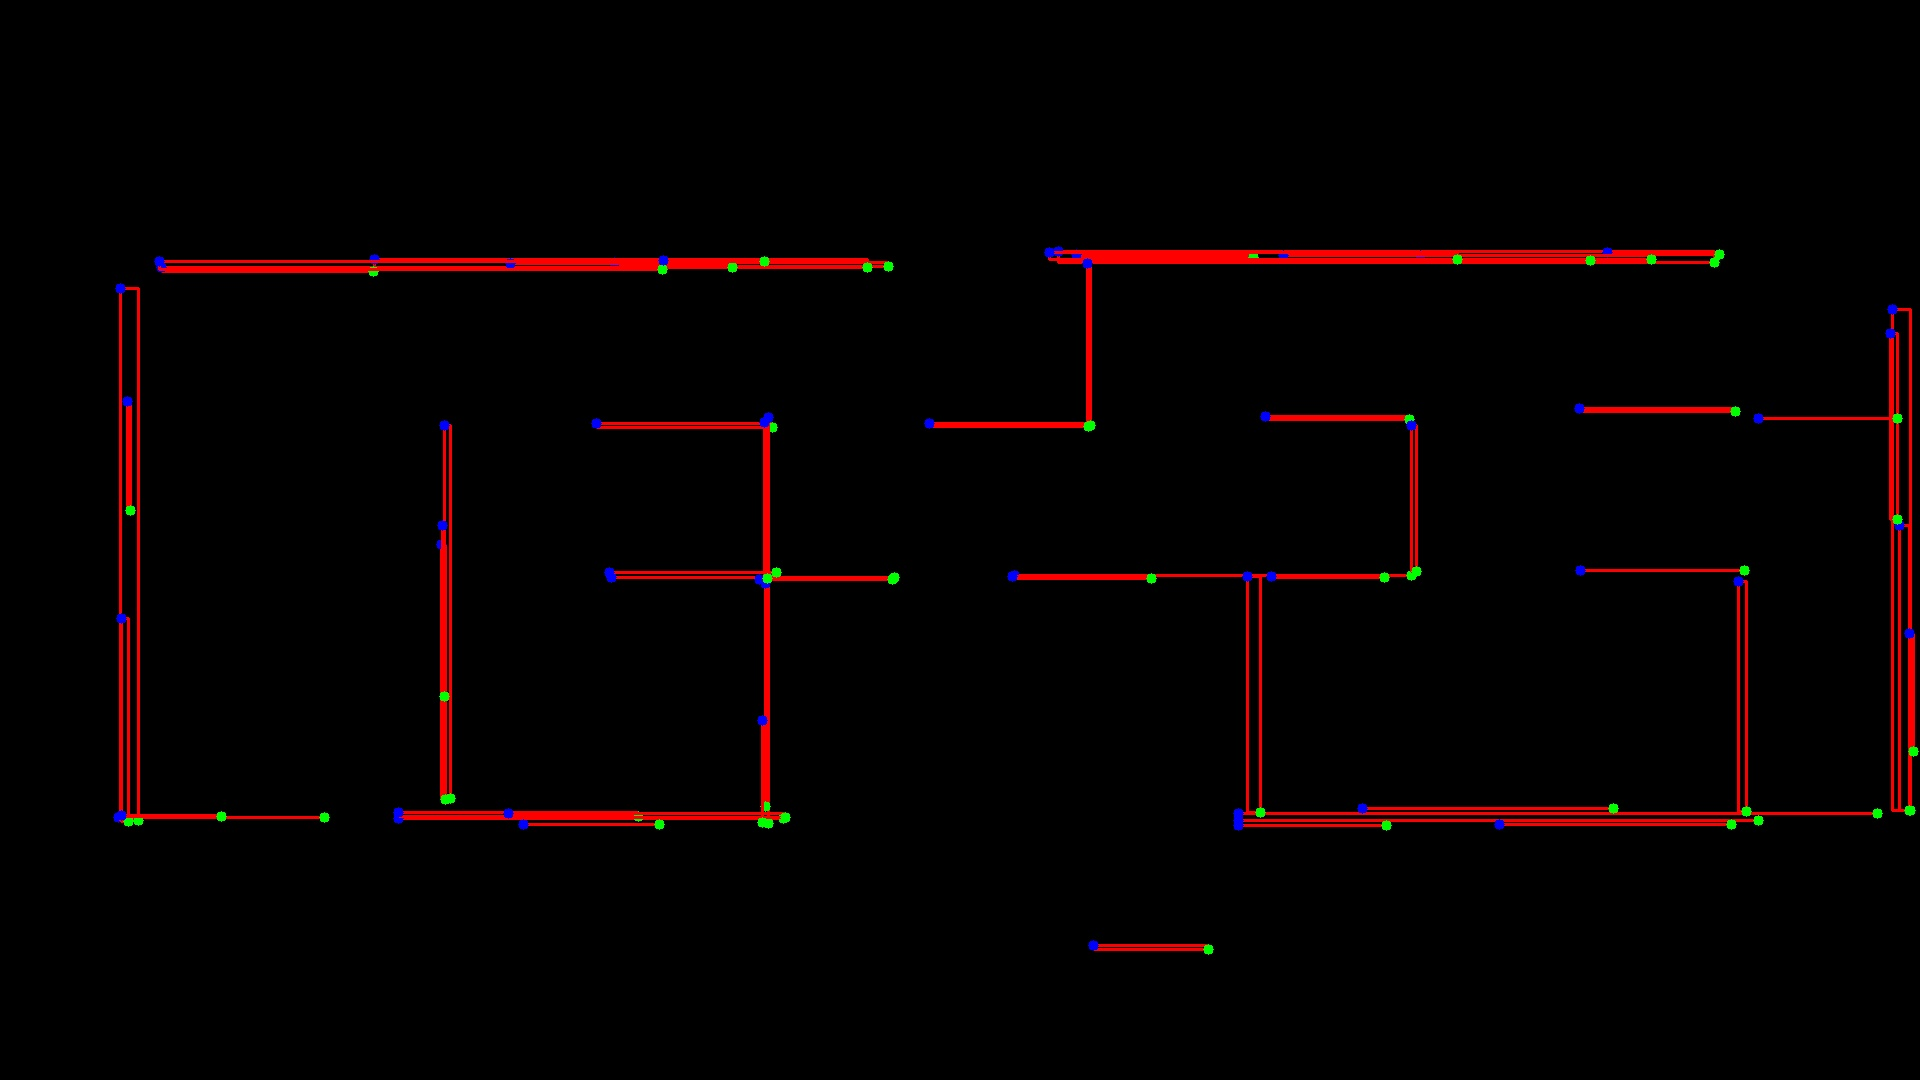
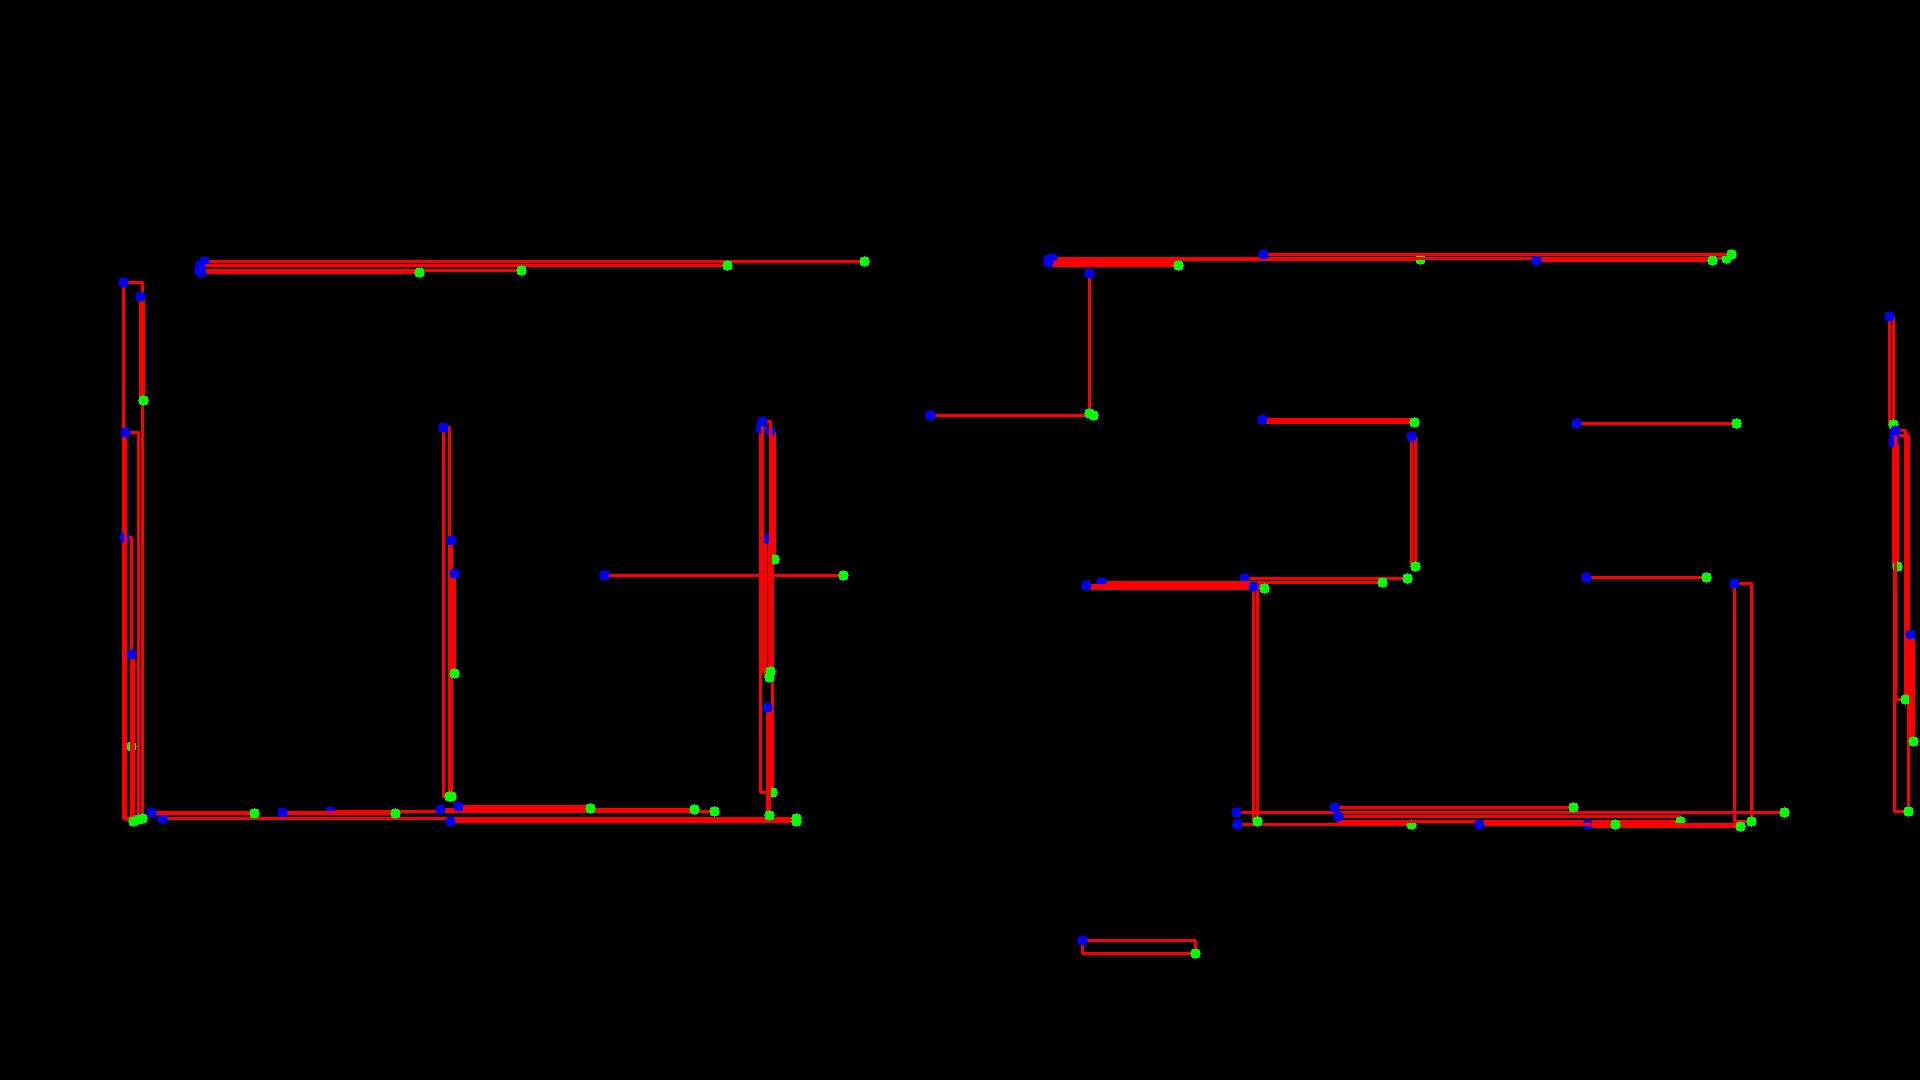
fixed

diff --git a/agent/__main__.py b/agent/__main__.py
@@ -1,8 +1,8 @@
 import base64
 import datetime
 import math
-from agent.vision import *
-from agent.camera_api import CameraHandler
+# from agent.vision import *
+# from agent.camera_api import CameraHandler
 from spade.agent import Agent
 from spade.behaviour import TimeoutBehaviour, OneShotBehaviour, CyclicBehaviour
 from spade.message import Message
@@ -45,13 +45,13 @@ class AlphaBotAgent(Agent):
         self.alphabot = AlphaBot2()
         self.robot_name = name
         self.other_agent = "mael" if name == "gerald" else "gerald"
-        self.camera_handler = None  
-        self.vision_session = None
-        self.vision_input_name = None
-        self.camera_matrix = None
-        self.dist_coeffs = None
-        self.focal_length = None
-        self.running = True  # Add this flag
+        # self.camera_handler = None  
+        # self.vision_session = None
+        # self.vision_input_name = None
+        # self.camera_matrix = None
+        # self.dist_coeffs = None
+        # self.focal_length = None
+        # self.running = True  # Add this flag
 
     async def setup(self):
         logger.info(f"[Agent] AlphaBotAgent {self.jid} starting setup...")
@@ -59,12 +59,12 @@ class AlphaBotAgent(Agent):
         
         # Initialize camera and vision components once
         logger.info("[Agent] Initializing camera and vision components...")
-        self.camera_handler = CameraHandler()
-        self.camera_handler.initialize_camera()
+        # self.camera_handler = CameraHandler()
+        # self.camera_handler.initialize_camera()
         
         # Load vision model and calibration
-        self.vision_session, self.vision_input_name = load_model('/agent/yolov5n.onnx')
-        self.camera_matrix, self.dist_coeffs, self.focal_length = load_calibration('/agent/camera_calibration.npz')
+        # self.vision_session, self.vision_input_name = load_model('/agent/yolov5n.onnx')
+        # self.camera_matrix, self.dist_coeffs, self.focal_length = load_calibration('/agent/camera_calibration.npz')
         
         logger.info("[Agent] Camera and vision components initialized.")
         
@@ -275,42 +275,42 @@ class AlphaBotAgent(Agent):
                             logger.info("[StartStop] Stopped RequestImageBehaviour.")
 
                     self.agent.alphabot.stop()
-    class TestBehaviour(TimeoutBehaviour):
-        async def run(self):
-            logger.info("[Test] Running test behavior...")
+    # class TestBehaviour(TimeoutBehaviour):
+    #     async def run(self):
+    #         logger.info("[Test] Running test behavior...")
             
-            try:
-                # Capture image using the pre-initialized camera handler
-                image = self.agent.camera_handler.capture_image()
+    #         try:
+    #             # Capture image using the pre-initialized camera handler
+    #             image = self.agent.camera_handler.capture_image()
                 
-                if image is not None:
-                    # Process the image with vision components
-                    results = detect_cubes(
-                        image=image,
-                        session=self.agent.vision_session,
-                        input_name=self.agent.vision_input_name,
-                        camera_matrix=self.agent.camera_matrix,
-                        dist_coeffs=self.agent.dist_coeffs,
-                        focal_length=self.agent.focal_length
-                    )
+    #             if image is not None:
+    #                 # Process the image with vision components
+    #                 results = detect_cubes(
+    #                     image=image,
+    #                     session=self.agent.vision_session,
+    #                     input_name=self.agent.vision_input_name,
+    #                     camera_matrix=self.agent.camera_matrix,
+    #                     dist_coeffs=self.agent.dist_coeffs,
+    #                     focal_length=self.agent.focal_length
+    #                 )
                     
-                    logger.info(f"[Test] Vision detection results: {results}")
+    #                 logger.info(f"[Test] Vision detection results: {results}")
                     
-                    # timestamp = datetime.datetime.now().strftime("%Y%m%d_%H%M%S")
-                    # filename = f"/agent/test_image_{timestamp}.jpg"
-                    # cv2.imwrite(filename, image)
-                    # logger.info(f"[Test] Saved test image to {filename}")
-                else:
-                    logger.warning("[Test] Failed to capture image from camera")
+    #                 # timestamp = datetime.datetime.now().strftime("%Y%m%d_%H%M%S")
+    #                 # filename = f"/agent/test_image_{timestamp}.jpg"
+    #                 # cv2.imwrite(filename, image)
+    #                 # logger.info(f"[Test] Saved test image to {filename}")
+    #             else:
+    #                 logger.warning("[Test] Failed to capture image from camera")
                 
-            except Exception as e:
-                logger.error(f"[Test] Error in test behavior: {str(e)}", exc_info=True)
+    #         except Exception as e:
+    #             logger.error(f"[Test] Error in test behavior: {str(e)}", exc_info=True)
             
-            # Schedule the next run
-            now = datetime.datetime.now()
-            delta = datetime.timedelta(milliseconds=IMAGE_INTERVAL_MS)
-            next_test = self.agent.TestBehaviour(start_at=now + delta)
-            self.agent.add_behaviour(next_test)
+    #         # Schedule the next run
+    #         now = datetime.datetime.now()
+    #         delta = datetime.timedelta(milliseconds=IMAGE_INTERVAL_MS)
+    #         next_test = self.agent.TestBehaviour(start_at=now + delta)
+    #         self.agent.add_behaviour(next_test)
 
     class InitBehaviour(OneShotBehaviour):
         async def request_image(self, name=None):
@@ -372,11 +372,22 @@ class AlphaBotAgent(Agent):
 
                 logger.info("[Step 0] Requesting initial image...")
                 img0 = await self.request_image("0_initial")
+                while True: 
+                    msg = await self.receive(timeout=1)
+                    if msg and msg.body.startswith("validate"):
+                        logger.info(f"[Step 0] Received message from {msg.sender}: {msg.body}")
+                        break
+                    elif msg and msg.body.startswith("take_picture"):
+                        # request another img and wait the validation button 
+                        logger.info(f"[Step 0] Received message from {msg.sender}: {msg.body}")
+                        img0 = await self.request_image("0_initial")
+                        continue
 
                 cv2.imwrite("/agent/navmesh_image_base.jpg", img0)
-
+                img0 = cv2.resize(img0, (1024, 576), img0)
                 walls = detect_walls(img0)
                 cubes = detect_cubes_camera_agent(img0)
+                print(len(cubes))
                 wall_scale_factor = 0.8
 
                 # Scale the walls to make them longer
@@ -569,9 +580,9 @@ class AlphaBotAgent(Agent):
 
     async def stop(self):
         logger.info(f"[Agent] Stopping AlphaBotAgent {self.jid}")
-        if self.camera_handler:
-            self.camera_handler.close_camera()
-            logger.info("[Agent] Camera handler closed.")
+        # if self.camera_handler:
+        #     self.camera_handler.close_camera()
+        #     logger.info("[Agent] Camera handler closed.")
         await super().stop()
         logger.info("[Agent] Stopped.")
 
@@ -584,23 +595,23 @@ async def main():
         return 
     
     # === Test depth estimation before starting the agent ===
-    try:
-        camera_api = CameraHandler()
-        camera_api.initialize_camera()
+    # try:
+        # camera_api = CameraHandler()
+        # camera_api.initialize_camera()
        
-        bgr_image = camera_api.capture_image()
-        rgb_image = cv2.cvtColor(bgr_image, cv2.COLOR_BGR2RGB)
-        pil_image = Image.fromarray(rgb_image)
+        # bgr_image = camera_api.capture_image()
+        # rgb_image = cv2.cvtColor(bgr_image, cv2.COLOR_BGR2RGB)
+        # pil_image = Image.fromarray(rgb_image)
 
-        obstacle_zones = estimate_depth_map(pil_image, visualize=True)
+        # obstacle_zones = estimate_depth_map(pil_image, visualize=True)
 
-        print("Obstacle detection by zone:")
-        for zone, present in obstacle_zones.items():
-            print(f"{zone.capitalize()}: {'🚫 Obstacle' if present else '✅ Clear'}")
+        # print("Obstacle detection by zone:")
+        # for zone, present in obstacle_zones.items():
+        #     print(f"{zone.capitalize()}: {'🚫 Obstacle' if present else '✅ Clear'}")
 
-    except Exception as e:
-        logger.error(f"❌ Depth estimation error: {e}", exc_info=True)
-        return
+    # except Exception as e:
+    #     logger.error(f"❌ Depth estimation error: {e}", exc_info=True)
+    #     return
 
     xmpp_jid = f"{xmpp_username}@{xmpp_domain}"
     xmpp_password = os.environ.get("XMPP_PASSWORD", "top_secret")

diff --git a/agent/alphabotlib/test.py b/agent/alphabotlib/test.py
@@ -521,7 +521,7 @@ def detect_cubes_camera_agent(img):
     filtered_contours = [contour for contour in contours if min_area < cv2.contourArea(contour) < max_area]
     # Draw all contours except the first
     final_contours = []
-    for contour in filtered_contours[10:]:  # Skip the first contour
+    for contour in filtered_contours:  # Skip the first contour
         epsilon = 0.08 * cv2.arcLength(contour, True)
         approx = cv2.approxPolyDP(contour, epsilon, True)
 
